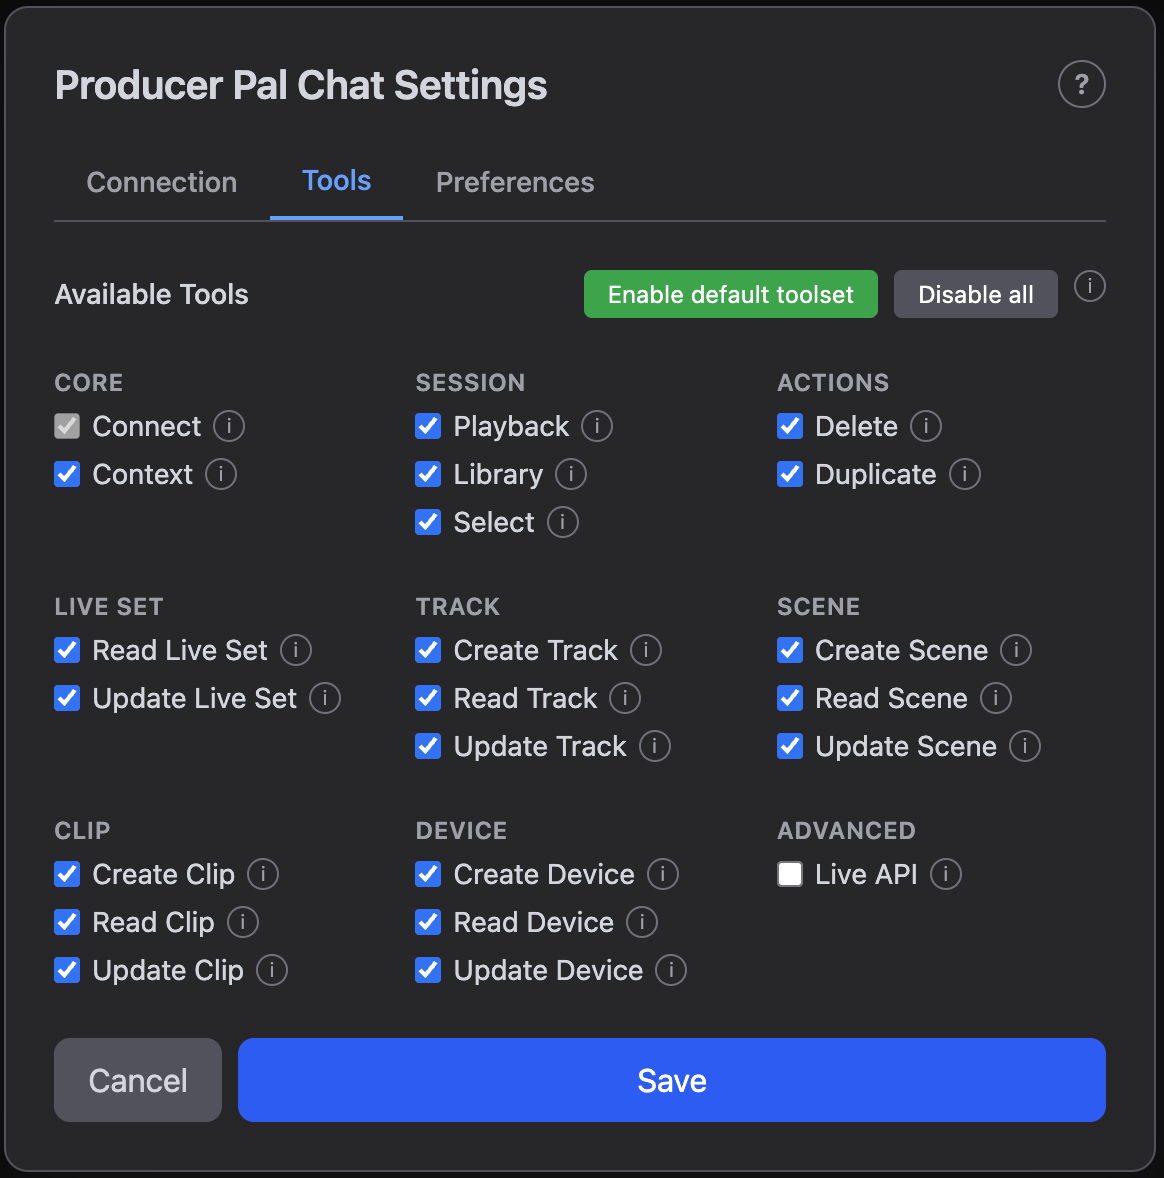
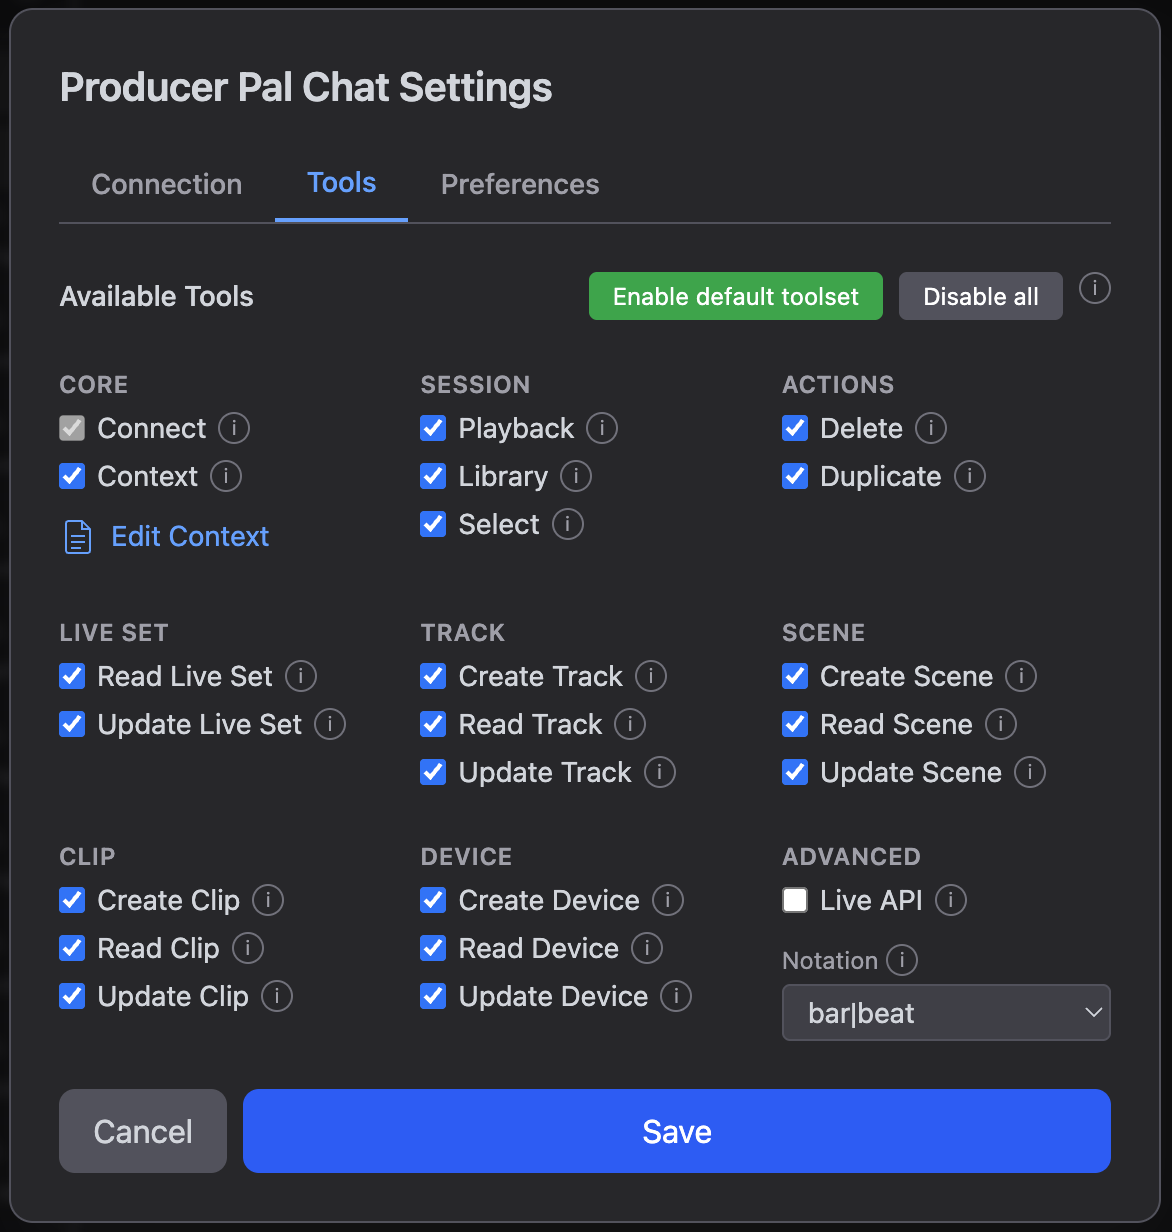
docs: add a Context & Memory guide page
Document the context editor's five tabs with screenshots: the three
context layers (project, global, memory) plus the Instructions and Skills
customization tabs. Covers where each layer is stored, that only memory
names and descriptions are always sent (bodies load on demand), and what
AI receives when it connects.

Related updates: the Chat UI header bullet and Tools section link into
the new page (and now describe the Context checkbox and Edit Context
link); Customizing Skills' editing instructions match the shipped UI;
the ppal-context feature entry names the three layers instead of
"project memory".

diff --git a/docs/.vitepress/config.ts b/docs/.vitepress/config.ts
@@ -114,6 +114,7 @@ export default defineConfig({
         items: [
           { text: "Device Interface", link: "/guide/device" },
           { text: "Chat UI", link: "/guide/chat-ui" },
+          { text: "Context & Memory", link: "/guide/context" },
           { text: "Usage Examples", link: "/guide/examples" },
           { text: "Customizing Skills", link: "/guide/customizing-skills" },
           { text: "REST API", link: "/guide/rest-api" },

diff --git a/docs/guide/context.md b/docs/guide/context.md
@@ -1,0 +1,179 @@
+---
+title: Context & Memory
+description:
+  Teach Producer Pal about your project and your taste. Project context, global
+  context, and memory — what AI sees on every conversation, where each layer is
+  stored, and how to edit them in the context editor.
+---
+
+# Context & Memory
+
+Producer Pal remembers things about your music in three layers. Each one is
+included in every conversation, and each answers a different question:
+
+| Layer               | Answers                        | Stored                                                           |
+| ------------------- | ------------------------------ | ---------------------------------------------------------------- |
+| **Project context** | What is _this_ Live Set?       | In this project's Max for Live device — it travels with the Set  |
+| **Global context**  | What do you always want?       | On your computer, in `~/.producer-pal/context.md`                |
+| **Memory**          | What has AI learned about you? | On your computer, one file per fact in `~/.producer-pal/memory/` |
+
+You write project and global context by hand. Memory is AI's own notebook: it
+records facts as you work, and you can edit them. AI can edit all three with the
+[Context tool](/features#ppal-context).
+
+All three reach every client — the built-in [Chat UI](/guide/chat-ui), external
+MCP clients like Claude Desktop, and the [REST API](/guide/rest-api) — because
+they are attached to the result when AI connects.
+
+## The context editor
+
+The editor has a tab per layer, plus two tabs for customizing how AI is
+prompted. Open it from:
+
+- The **Context** button in the [Chat UI](/guide/chat-ui) header
+- The **Open Editor** button on the device's
+  [Context tab](/guide/device#context-tab)
+- The **Edit Context** link beside the Context tool in the Chat UI's Tools
+  settings
+
+Every tab shares the same chrome: edits **auto-save** as you type (the header
+shows "Saved"), a size readout gives the character count and approximate token
+cost, and the import (⬆) / export (⬇) buttons read and write markdown files —
+you can also drag a `.md` file onto the editor. The folder button opens
+`~/.producer-pal` in your file manager. AI and the editor stay in sync: if AI
+writes while you have a tab open, a banner offers to reload.
+
+## Project
+
+<img src="/img/producer-pal-context-project.png" alt="Project tab" width="700"/>
+
+Notes about the Live Set you're working on: its genre and tempo, how the
+arrangement is laid out, which track does what, and the rules you want followed.
+
+Project context is saved in this project's Producer Pal device, so it travels
+with the Live Set and is gone if you delete the device. This is the same text as
+the device's [Context tab](/guide/device#context-tab) — the device shows it in a
+small box, the editor gives it room.
+
+Keep it about the project, not about you. "Kick stays four-on-the-floor" belongs
+here; "I always work in A minor" belongs in Global.
+
+## Global
+
+<img src="/img/producer-pal-context-global.png" alt="Global tab" width="700"/>
+
+Notes that apply to everything you make: the genres and tempos you work in, your
+production habits, conventions you want AI to respect, and things you never want
+it to do.
+
+Global context is stored on your computer, so it follows you from project to
+project — a new Live Set starts with your preferences already in place.
+
+## Instructions
+
+<img src="/img/producer-pal-context-instructions.png" alt="Instructions tab" width="700"/>
+
+The system prompt for the built-in Chat UI. It ships with a default (shown
+read-only, with its size) that tells AI to act as a music-composition assistant
+and to use its tools rather than asking you for details it could look up.
+
+Press **Customize** to fork the default into an editable copy, and the trash
+button to reset back to the default. Only the built-in Chat UI uses this —
+external apps like Claude Desktop or Claude Code bring their own system prompt.
+
+::: warning This replaces, not appends
+
+Custom instructions replace the default entirely. If you want AI to keep
+behaving like Producer Pal's assistant, start from the default (Customize forks
+it for you) rather than from a blank page. To _add_ a preference, use Global
+context instead — that's what it's for.
+
+:::
+
+## Skills
+
+<img src="/img/producer-pal-context-skills.png" alt="Skills tab" width="700"/>
+
+The **Producer Pal Skills** are the instructions AI receives when it connects —
+how to write notes, edit clips, build instruments, and search your library. The
+Skills tab lets you override any fragment of them. The dropdown picks a
+fragment; each shows read-only with a **Customize** button until you fork it.
+
+Customized fragments are marked ✎ in the dropdown, and ⚠ if the built-in changed
+in a newer Producer Pal release after you forked it (your override still applies
+— the mark just tells you it's now behind).
+
+Once you customize a fragment, the editor shows your override beside the
+built-in so you can see what you changed:
+
+<img src="/img/producer-pal-context-skills-customized.png" alt="A customized skills fragment" width="700"/>
+
+- **Your override** (left) is editable and auto-saves
+- **Default** (right) is the built-in, with **Copy** to grab its text and
+  **Hide** to collapse back to one column
+- The trash button beside "Default" resets the fragment, deleting your override
+
+**Preview** shows what AI actually receives — the whole assembled document for a
+given notation and model size, with your overrides applied. The customized
+library fragment above appears here in place, right where it gets pulled in:
+
+<img src="/img/producer-pal-context-skills-preview.png" alt="Skills preview" width="700"/>
+
+The ★ badge marks the combination your current settings use, and the size
+readout is why trimming matters: everything here is sent on every conversation.
+**Source** switches back to editing.
+
+See [Customizing Skills](/guide/customizing-skills) for how the fragments fit
+together, and how to drop whole areas you never use.
+
+## Memory
+
+<img src="/img/producer-pal-context-memory.png" alt="Memory tab" width="700"/>
+
+Memory is AI's own notebook about you, kept across projects. Where global
+context is a blob you write, memory is a list of small facts AI writes as it
+learns them ("you never want hats hard-quantized"), stored one file per fact.
+
+Each entry has three parts:
+
+- **Name** — a short slug, and the filename in `~/.producer-pal/memory/`
+- **Description** — a one-line recall hook
+- **Memory** — the fact itself
+
+Only the **names and descriptions** are sent to AI on every conversation, as an
+index. It reads a full entry only when the description suggests it's relevant.
+That's what keeps a growing memory cheap: a hundred facts cost a hundred lines,
+not a hundred bodies.
+
+::: tip Write descriptions as hooks, not titles
+
+The description is the _only_ thing AI always sees, so it has to say when the
+memory matters. "Dislikes rigidly quantized hi-hats; wants swing" earns a
+lookup. "Hi-hat stuff" does not.
+
+:::
+
+Use **New memory** to add an entry yourself, click one to edit it, and the trash
+button to delete it. Renaming an entry renames its file.
+
+::: details Memory in small model mode
+
+[Small model mode](/features#small-model-mode) turns memory off: the index isn't
+sent, and AI can only read and write project and global context. Smaller models
+do better with fewer moving parts, and memory's load-on-demand step is one they
+tend to skip.
+
+:::
+
+## What AI sees when it connects
+
+On connect, the three layers are attached to the result in order: your project
+context, then your global context, then the memory index. Skills, custom
+instructions, and the context layers are all sent up front, so if a conversation
+starts before you make an edit, start a **new conversation** for the change to
+take effect.
+
+To stop AI from reading a layer, empty it. To stop AI from _writing_ to any of
+them, turn off the Context tool (the **Context** checkbox under the Chat UI's
+[Tools settings](/guide/chat-ui#tools); other MCP clients have their own way to
+disable a tool).

diff --git a/docs/guide/chat-ui.md b/docs/guide/chat-ui.md
@@ -35,16 +35,11 @@ The header is organized into two areas:
 - **Provider & Model** - Click to open connection settings
 - **Tools count** - Click to open tools settings
 - **Model size** - Shows "large model" or "small model" mode
-- **Context** - Open the context editor in a larger view. It has five tabs:
-  **Project** (notes about the current Live Set), **Global** (facts that apply
-  across every project, stored in `~/.producer-pal`), **Instructions** (a custom
-  system prompt that replaces Producer Pal's built-in one), **Skills** (advanced
-  overrides for the built-in skill fragments the AI is taught — see
-  [Customizing Skills](/guide/customizing-skills)), and **Memory** (the
-  assistant's own notes about you across sessions — each entry has a name, a
-  one-line description, and a body; only the descriptions are always visible to
-  the AI, bodies load on demand). Press the close (✕) button to return to the
-  chat
+- **Context** - Open the [context editor](/guide/context) in a larger view,
+  where you teach AI about your project (**Project**), your preferences
+  (**Global**), and review what it remembers about you (**Memory**) — plus
+  customize its system prompt (**Instructions**) and skills (**Skills**). Press
+  the close (✕) button to return to the chat
 - **Settings gear** - Open settings dialog
 - **Help (?)** - Link to documentation
 
@@ -365,6 +360,13 @@ you want to prevent the AI from using a specific tool, you can disable it here.
 Consult [the Features page](/features) for more info on what each tool does.
 
 <img src="/img/producer-pal-chat-settings-tools.png" alt="Tools settings" width="500"/>
+
+The **Context** checkbox under **Core** controls the Context tool, which AI uses
+to _edit_ your [context and memory](/guide/context) and to load a memory entry
+it wants to read in full. Turn it off to keep AI from changing them. Your
+project context, global context, and the memory index are attached when AI
+connects either way, so to stop it reading a layer, empty that layer. **Edit
+Context** below the checkbox opens the context editor.
 
 The **Live API** checkbox under **Advanced** behaves differently from the other
 toggles. The rest only filter which tools the chat UI's AI can see, but this one

diff --git a/docs/guide/customizing-skills.md b/docs/guide/customizing-skills.md
@@ -52,13 +52,14 @@ lives directly in the driver text.
 
 ## Editing fragments
 
-**In the Chat UI:** open the context editor (the **Context** button in the
-header) and switch to the **Skills** tab. The **Fragments** view lets you pick
-any fragment, pre-populated with the current built-in text — edit and **Save**
-to create your override, or **Reset** to delete it and return to the built-in. A
-marker next to the fragment name shows when it's customized, and when the
-built-in has changed since you forked it. The **Preview** view shows the fully
-assembled skills exactly as the AI will receive them.
+**In the Chat UI:** open the [context editor](/guide/context) (the **Context**
+button in the header) and switch to the **Skills** tab. Pick a fragment from the
+dropdown: it shows read-only until you press **Customize**, which forks the
+built-in into an editable override that auto-saves as you type. The trash button
+resets a fragment, deleting your override. In the dropdown, ✎ marks a customized
+fragment and ⚠ one whose built-in has changed since you forked it. **Preview**
+shows the fully assembled skills exactly as the AI will receive them. See
+[Context & Memory](/guide/context#skills) for screenshots.
 
 **On disk:** overrides are plain Markdown files in `~/.producer-pal/skills/`,
 named after the fragment (`core-devices.md`, `standard.md`, …). A file's

diff --git a/docs/guide/device.md b/docs/guide/device.md
@@ -53,9 +53,9 @@ other MCP clients have their own way to disable a tool.
 
 Project context lives with this Live Set. **Global context** (notes that apply
 across all your projects) and **memory** (facts AI records about you as you
-work) are stored on your computer instead, and are edited in the
-[Chat UI](/guide/chat-ui)'s context editor — the same editor the **Open Editor**
-button opens.
+work) are stored on your computer instead. All three are edited in the context
+editor — the same editor the **Open Editor** button opens. See
+[Context & Memory](/guide/context).
 
 :::
 

diff --git a/docs/features.md b/docs/features.md
@@ -35,8 +35,9 @@ It works with virtually any AI, including its
 
 ### 🔧 Context (`ppal-context`) {#ppal-context}
 
-- Read and write project memory — persistent notes that help the AI understand
-  your goals across conversations
+- Read and write the three [context layers](/guide/context): project context
+  (notes about this Live Set), global context (preferences that apply to every
+  project), and memory (facts AI records about you as you work)
 
 <!--@include: ./_generated/ppal-context-schema.md-->
 

diff --git a/docs/guide.md b/docs/guide.md
@@ -47,6 +47,8 @@ After installation:
 
 - [Device Interface](/guide/device) - The Max for Live device tabs and settings
 - [Chat UI](/guide/chat-ui) - The built-in browser-based chat interface
+- [Context & Memory](/guide/context) - Teach AI about your project and your
+  preferences, and see what it remembers about you
 
 ## Next Steps
 
